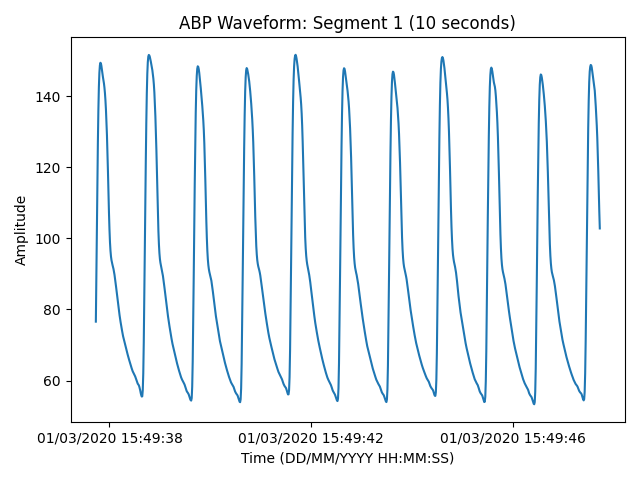
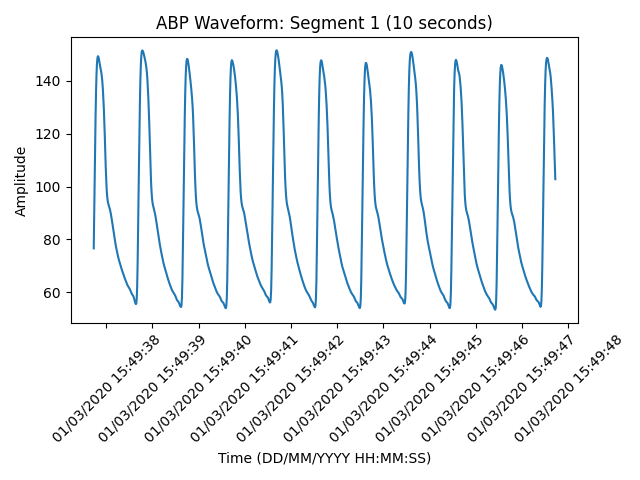
cleaning the garbage

diff --git a/visual.py b/visual.py
@@ -6,8 +6,6 @@ matplotlib.use('Agg')
 import matplotlib.pyplot as plt
 import parse_xml as px
 
-import matplotlib.dates as mdates
-
 import json
 
 import datetime
@@ -58,11 +56,8 @@ def draw(idx):
     plt.title(f"ABP Waveform: Segment {idx} (10 seconds)")
     plt.xlabel("Time (DD/MM/YYYY HH:MM:SS)")
     plt.ylabel("Amplitude")
-    plt.xticks(rotation=0)
-
-    ax = plt.gca()
-    ax.xaxis.set_major_locator(mdates.SecondLocator(interval=4))
-    ax.xaxis.set_major_formatter(mdates.DateFormatter('%d/%m/%Y %H:%M:%S'))
+    plt.xticks(rotation=45)
+    plt.gca().xaxis.set_major_formatter(matplotlib.dates.DateFormatter('%d/%m/%Y %H:%M:%S'))
 
     # Save the plot
     image_path = f'plot_{idx}.png'
